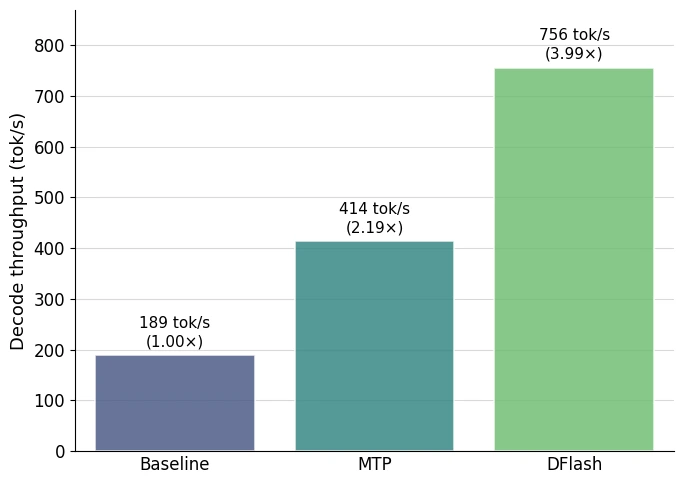
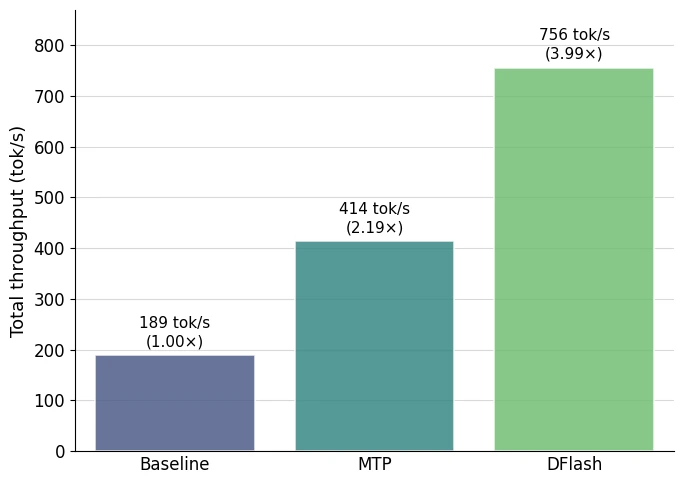
update headline figure

Changed region(s): [[0.0, 0.2479, 0.0614, 0.7438]]

diff --git a/blog/2026-06-12-next-generation-speculative-decoding-dflash-v2.md b/blog/2026-06-12-next-generation-speculative-decoding-dflash-v2.md
@@ -8,7 +8,10 @@ type: blog
 
 Using Z Lab's DFlash speculative decoding models with SGLang’s newly default Spec V2 engine, you can achieve state-of-the-art latencies for LLM inference serving.
 
-<img src="/images/blog/dflash-v2/dflash-headline-perf.webp" style="display:block; margin-left: auto; margin-right: auto; width: 60%"></img>
+<div style="text-align: center;">
+  <img src="/images/blog/dflash-v2/dflash-headline-perf.webp" style="width: 60%;"></img>
+  <small>Workload: Qwen 3.5 397B-A17B (BF16), HumanEval. Settings: greedy decoding, thinking enabled, max new tokens 4096. Hardware: 8xB200.</small>
+</div>
 
 Below, we describe DFlash’s novel diffusion \+ KV injection strategy for speculative decoding, why that matters for achieving massive speedups, and how the teams at [Z Lab](https://z-lab.ai), SGLang, and [Modal](https://modal.com) worked together to make those speedups available to everyone.
 